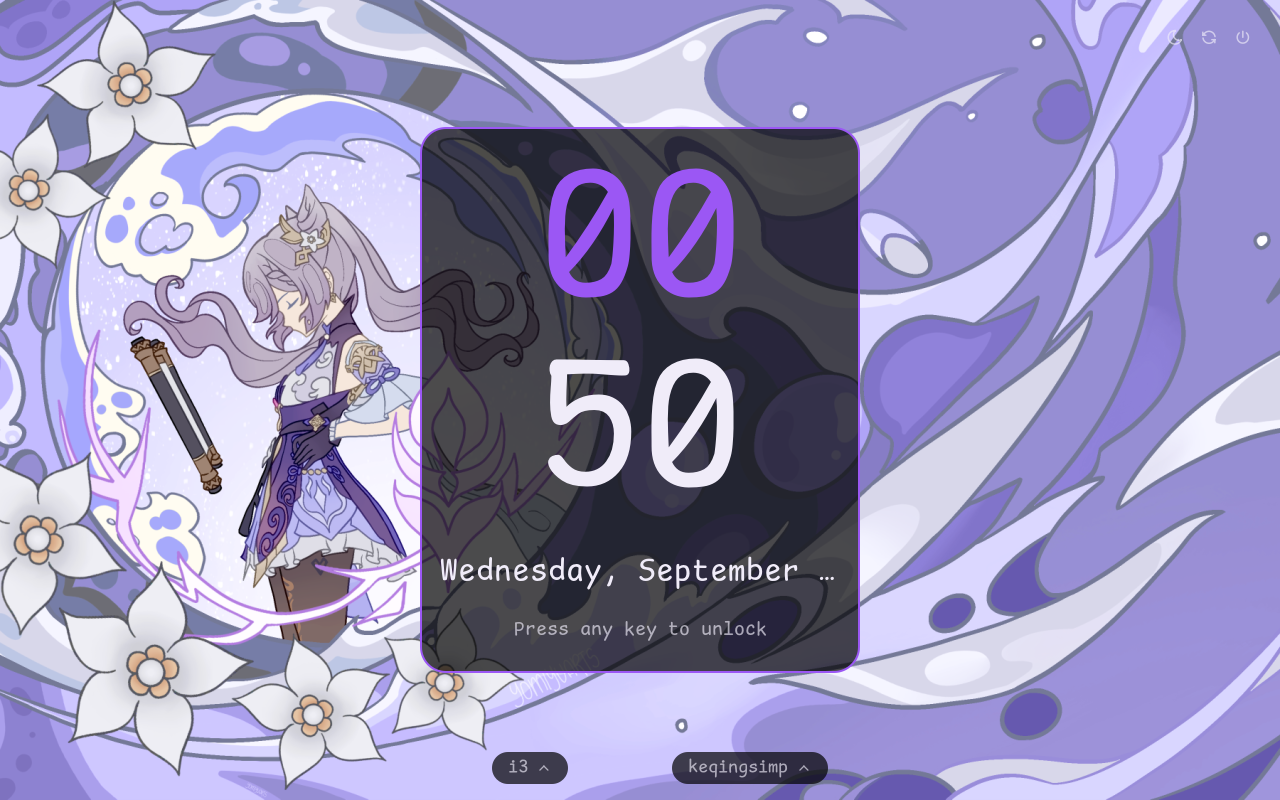
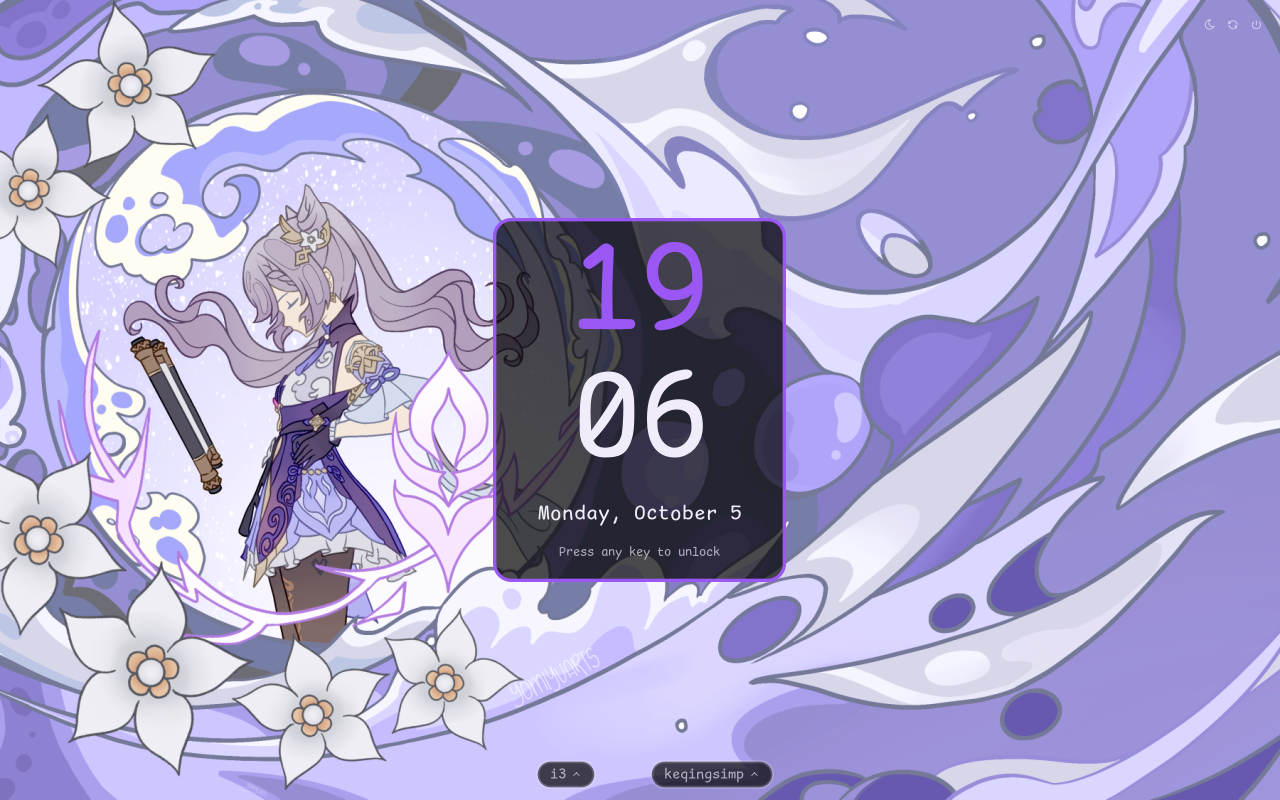
update

diff --git a/src/render/dropdown.cpp b/src/render/dropdown.cpp
@@ -42,9 +42,13 @@ void Dropdown::draw_button(cairo_t *cr, const Rect &button, std::string_view lab
     int width = std::min(measure_text(cr, label, font).width, limit);
     int content = width + indicator_gap + indicator_size;
     int x = static_cast<int>(button.center_x()) - content / 2;
-    rounded_rect(cr, x - padding, button.y, content + padding * 2, button.height, button.height / 2.0);
+    double inset = border_width / 2.0;
+    rounded_rect(cr, x - padding + inset, button.y + inset, content + padding * 2 - inset * 2, button.height - inset * 2, button.height / 2.0 - inset);
     set_color(cr, pill_color);
-    cairo_fill(cr);
+    cairo_fill_preserve(cr);
+    set_color(cr, menu_border);
+    cairo_set_line_width(cr, border_width);
+    cairo_stroke(cr);
     draw_text(cr, label, font, text_color, {x, button.y, width, button.height}, TextAlign::Left);
     draw_text(cr, icon::chevron_up, indicator_font, text_color, {x + width + indicator_gap, button.y, indicator_size, button.height}, TextAlign::Center);
 }
@@ -52,7 +56,7 @@ void Dropdown::draw_button(cairo_t *cr, const Rect &button, std::string_view lab
 void Dropdown::draw_menu(cairo_t *cr, const Rect &menu, const std::vector<std::string> &labels, std::size_t index) const {
     double inset = border_width / 2.0;
     rounded_rect(cr, menu.x + inset, menu.y + inset, menu.width - inset * 2, menu.height - inset * 2, corner_radius);
-    set_color(cr, menu_color);
+    set_color(cr, pill_color);
     cairo_fill_preserve(cr);
     set_color(cr, menu_border);
     cairo_set_line_width(cr, border_width);

diff --git a/src/config/session_picker_config.h b/src/config/session_picker_config.h
@@ -5,18 +5,18 @@
 namespace config::session_picker {
 
 // Layout
-inline constexpr WidgetGeometry geometry{Anchor::Bottom, -110, -16, 200, 32};
+inline constexpr WidgetGeometry geometry{Anchor::Bottom, -110, -16, 260, 44};
 inline constexpr int max_items = 8;
-inline constexpr int item_height = 30;
+inline constexpr int item_height = 40;
 inline constexpr int menu_gap = 4;
 inline constexpr double corner_radius = 10.0;
-inline constexpr double border_width = 1.0;
+inline constexpr double border_width = 5.0;
 inline constexpr int indicator_size = 16;
 inline constexpr int indicator_gap = 8;
 inline constexpr bool show_type = false;
 
 // Typography, in points
-inline constexpr int font_size = 14;
+inline constexpr int font_size = 17;
 
 // Colors
 inline constexpr Color pill_color{0.0, 0.0, 0.0, 0.7};

diff --git a/src/config/user_menu_config.h b/src/config/user_menu_config.h
@@ -5,17 +5,17 @@
 namespace config::user_menu {
 
 // Layout
-inline constexpr WidgetGeometry geometry{Anchor::Bottom, 110, -16, 200, 32};
+inline constexpr WidgetGeometry geometry{Anchor::Bottom, 110, -16, 260, 44};
 inline constexpr int max_items = 8;
-inline constexpr int item_height = 30;
+inline constexpr int item_height = 40;
 inline constexpr int menu_gap = 4;
 inline constexpr double corner_radius = 10.0;
-inline constexpr double border_width = 1.0;
+inline constexpr double border_width = 5.0;
 inline constexpr int indicator_size = 16;
 inline constexpr int indicator_gap = 8;
 
 // Typography, in points
-inline constexpr int font_size = 14;
+inline constexpr int font_size = 17;
 
 // Colors
 inline constexpr Color pill_color{0.0, 0.0, 0.0, 0.7};

diff --git a/src/modules/session_picker.cpp b/src/modules/session_picker.cpp
@@ -26,9 +26,8 @@ SessionPicker::SessionPicker() {
     dropdown_.max_items = defaults::max_items;
     dropdown_.color = config::muted;
     dropdown_.focus_color = config::accent;
-    dropdown_.menu_color = config::field;
-    dropdown_.menu_border = config::field_border;
     dropdown_.pill_color = defaults::pill_color;
+    dropdown_.menu_border = config::field_border;
 }
 
 void SessionPicker::layout(int width, int height) {

diff --git a/src/modules/user_menu.cpp b/src/modules/user_menu.cpp
@@ -16,9 +16,8 @@ UserMenu::UserMenu() {
     dropdown_.max_items = defaults::max_items;
     dropdown_.color = config::muted;
     dropdown_.focus_color = config::accent;
-    dropdown_.menu_color = config::field;
-    dropdown_.menu_border = config::field_border;
     dropdown_.pill_color = defaults::pill_color;
+    dropdown_.menu_border = config::field_border;
 }
 
 void UserMenu::layout(int width, int height) {

diff --git a/src/config/clock_panel_config.h b/src/config/clock_panel_config.h
@@ -7,7 +7,7 @@ namespace config::clock_panel {
 // Layout, covers the clock, date and hint geometries
 inline constexpr WidgetGeometry geometry{Anchor::Center, 0, 0, 440, 546};
 inline constexpr double corner_radius = 25.0;
-inline constexpr double border_width = 2.0;
+inline constexpr double border_width = 5.0;
 
 // Colors
 inline constexpr Color fill{0.0, 0.0, 0.0, 0.7};

diff --git a/src/render/dropdown.h b/src/render/dropdown.h
@@ -25,7 +25,6 @@ struct Dropdown {
     double border_width = 0.0;
     config::Color color;
     config::Color focus_color;
-    config::Color menu_color;
     config::Color menu_border;
     config::Color pill_color;
 
